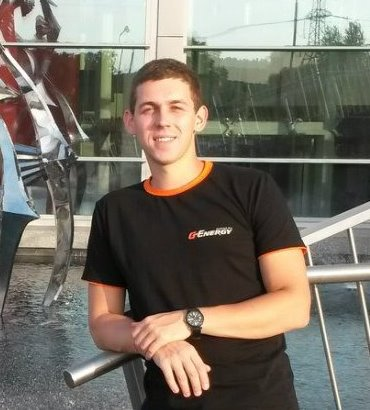
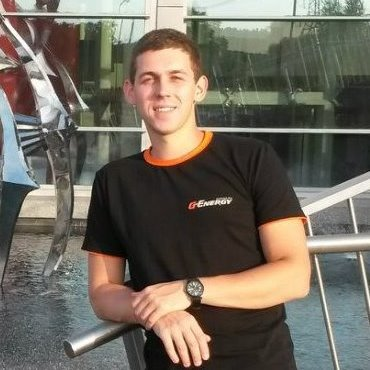
feat: add header, footer, css styles

diff --git a/index.html b/index.html
@@ -1,64 +1,77 @@
-<!DOCTYPE html>
+<!doctype html>
 <html lang="en">
 <head>
-    <meta charset="UTF-8">
-    <meta http-equiv="X-UA-Compatible" content="IE=edge">
+    <meta charset="utf-8">
+    <meta http-equiv="x-ua-compatible" content="ie=edge">
     <meta name="viewport" content="width=device-width, initial-scale=1.0">
     <link rel="stylesheet" href="./sources/styles/style.css">
     <title>Curriculum Vitae</title>
 </head>
 <body>
     <header>
-        <h1>Ivan Ivanov CV</h1>
+        <h1>Ivan Ivanov</h1><article class="about-me">
+            <img class="photo" src="./sources/images/isivano_photo.jpg" alt="Photo">
+            <h2 class="title about-me-title">About me</h2>
+            <p class="text-about-me">
+                какая-нибудь очень интересная информация обо мне, моих навыках, жизненых взгялдах и обязательно о политике!
+            </p>
+            
+        </article>
     </header>
-    <img class="photo" src="./sources/images/isivano_photo.jpg" alt="Photo">
-    <article>
-        <h2>Contact information</h2>
-        <ul>
+    <section class="section-case">
+        <h2 class="title section-title">Contact information</h2>
+        <ul class="text-field">
             <li>E-mail: <a href="mailto:ivanov-i.s@mail.ru">ivanov-i.s@mail.ru</a></li>
             <li>Phone: <a href="tel:+375293843494" target="_blank">+375293843494</a></li>
+            <li>Location: <a href="https://goo.gl/maps/K1rT8KCwCgM61Ha36" target="_blank">Gomel</a></li>
         </ul>
-    </article>
-    <article>
-        <h2>Summary</h2>
-        <p>The main goal is get a new interested experience, knowledge and professional skills.</p>
-        <p>As an engineer I always ready for different challenges and do my best for solving tasks.</p>
-    </article>
-    <article>
-        <h2>Skills</h2>
-        <ul>
+    </section>
+    <section class="section-case">
+        <h2 class="title section-title">Summary</h2>
+        <p class="text-field">The main goal is get a new interested experience, knowledge and professional skills. <br> 
+            As an engineer I always ready for different challenges and do my best for solving tasks.
+        </p>
+    </section>
+    <section class="section-case">
+        <h2 class="title section-title">Skills</h2>
+        <ul class="text-field">
             <li>HTML</li>
             <li>CSS</li>
             <li>JavaScript (basic skills)</li>
         </ul>
-    </article>
-    <article>
-        <h2>Latest code examples</h2>
-        <div class="code-example">
-            <pre>document.querySelector("#horizPhoneButton").addEventListener('click',function(){  
+    </section>
+    <section class="section-case">
+        <h2 class="title section-title">Latest code examples</h2>
+                    <pre class="code-example" class="text-field">document.querySelector("#horizPhoneButton").addEventListener('click',function(){  
     let screen = document.querySelector("#horizPhoneScreen");  
     if (screen.classList.value.indexOf('turnOff')&lt;0) screen.classList.add('turnOff');  
     else screen.classList.remove('turnOff'); 
 })          </pre>
-        </div>
-    </article>
-    <article>
-        <h2>Experience</h2>
-        <ul>
+    </section>
+    <section class="section-case">
+        <h2 class="title section-title">Experience</h2>
+        <ul class="text-field">
             <li>Took part in the Rolling Scopes 2018-Q1, 2020-Q3</li>
             <li><a href="https://www.codewars.com/users/isivano/completed">Codewars</a></li>
             <li><a href="https://github.com/isivano">Github</a></li>
         </ul>
-    </article>
-    <article>
-        <h2>Education</h2>
-        <p>Graduated in 2016 from the Francisk Skorina Gomel State University with the Software Engineer qualification 
-            in the Information Technology Software specialty.
+    </section>
+    <section class="section-case">
+        <h2 class="title section-title">Education</h2>
+        <p class="text-field">Graduated in 2016 from the Francisk Skorina Gomel State University. 
+            <mark>Software Engineer qualification</mark> of Information Technology Software specialty.
         </p>
-    </article>
-    <article>
-        <h2>English skills</h2>
-        <p>Completed the Pre-Intermediate (A2) course.</p>
-    </article> 
+    </section>
+    <section class="section-case">
+        <h2 class="title section-title">English skills</h2>
+        <p class="text-field">Completed the Pre-Intermediate (A2) course.</p>
+    </section> 
+    <footer class="section-case footer-case">
+        <p class="footer-text">Contact me via: </p> 
+        <ul class="footer-contacts">
+            <li>E-mail: <a href="mailto:ivanov-i.s@mail.ru">ivanov-i.s@mail.ru</a></li>
+            <li>Phone: <a href="tel:+375293843494" target="_blank">+375293843494</a></li>
+        </ul>
+    </footer>
 </body>
 </html>

diff --git a/sources/styles/style.css b/sources/styles/style.css
@@ -3,30 +3,103 @@
 }
 
 body {
-  width: 1024px;
+  width: 900px;
   margin: 0 auto;
+  font-family: Arial, Helvetica, sans-serif;
+}
+
+li {
+  list-style-type: none;
 }
 
 h1 {
+  display: block;
   text-align: center;
+  float: left;
+  margin: 140px 15px 0 5px;
+  text-transform: uppercase;
+  color: rgb(39, 201, 223);
 }
 
-h1,
-h2 {
-  margin-top: 20px;
+.title {
+  display: inline-block;
+  color: white;
+  vertical-align: top;
+}
+
+.section-title {
+  width: 150px;
+  margin: 0 60px 0 0;
+  padding: 5px;
+}
+
+.about-me {
+  position: relative;
+  display: inline-block;
+  background-color: rgb(39, 201, 223);
+  padding: 0 50px;
+  width: 576px;
+}
+
+.about-me-title {
+  width: 300px;
+  margin-top: 25px;
+}
+
+.text-about-me {
+  display: inline-block;
+  vertical-align: top;
+  width: 300px;
+}
+
+.section-case {
+  background-color: rgb(39, 201, 223);
+  margin: 20px 0;
+}
+
+.text-field {
+  display: inline-block;
+  min-height: 66px;
+  width: 642px;
+  padding: 0 10px;
+  background-color: white;
 }
 
 .photo {
+  margin: 10px 0;
+  width: 150px;
+  border-radius: 100px;
   float: right;
-  margin-top: 20px;
 }
 
 .code-example {
+  display: inline-block;
   padding: 10px;
   background-color: #dadada;
+  border-left: 10px solid white;
+  border-right: 10px solid white;
 }
 
-article {
+mark {
+  background-color: rgb(39, 201, 223);
+  color: white;
+}
+
+.footer-case{
+  padding: 5px;
+}
+
+.footer-text{
+  display: inline;
+  color: white;
+}
+
+.footer-contacts{
   display: inline-block;
-  width: 610px;
+  padding: 0;
+  
+}
+
+.footer-contacts li{
+  display: inline;
 }
